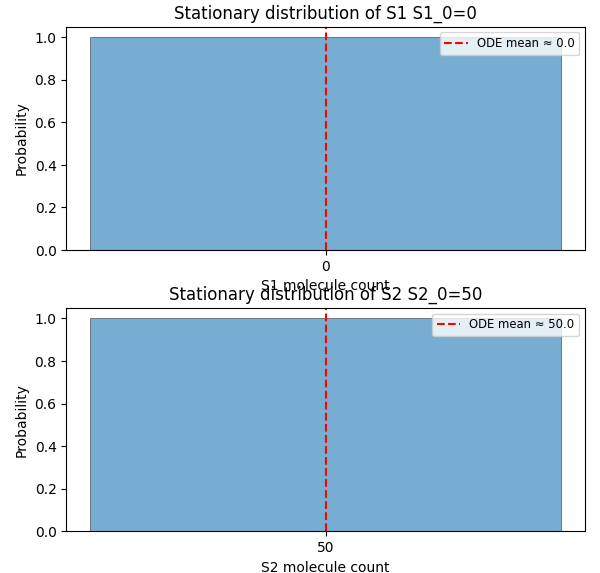
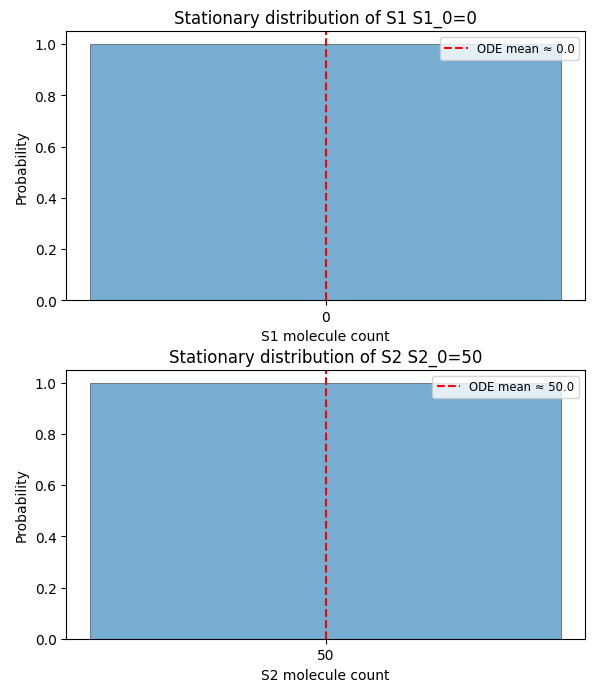
change the plot

diff --git a/M2R-Gillespie-algorithm-for-stochastic-biochemical-systems/src/ligand_dimerization_case1_dis.py b/M2R-Gillespie-algorithm-for-stochastic-biochemical-systems/src/ligand_dimerization_case1_dis.py
@@ -58,7 +58,7 @@ def sample_stationary_S1_S2(S1_0, S2_0, t_max, burn_in, dt_sample, n_runs): # no
     return all_S1, all_S2
 
 
-# 5. Plot stationary histograms
+# Plot stationary histograms
 def plot_stationary_distribution_S1_S2(S1_0, S2_0, t_max,burn_in=500.0, dt_sample=1.0,n_runs=50): # noqa
 
     all_S1, all_S2 = sample_stationary_S1_S2( # noqa
@@ -78,7 +78,7 @@ def plot_stationary_distribution_S1_S2(S1_0, S2_0, t_max,burn_in=500.0, dt_sampl
     S2_ss = ode_sol[-1, 1] # noqa
 
     # Create subplots
-    fig, (ax1, ax2) = plt.subplots(2, 1, figsize=(6, 8), sharex=False)
+    fig, (ax1, ax2) = plt.subplots(2, 1, figsize=(6, 8), sharex=False, constrained_layout=True) # noqa
 
     # Plot for S1
     ax1.hist(all_S1, bins=bins_S1, density=True,
@@ -88,7 +88,6 @@ def plot_stationary_distribution_S1_S2(S1_0, S2_0, t_max,burn_in=500.0, dt_sampl
     ax1.set_xlabel("S1 molecule count")
     ax1.set_ylabel("Probability")
     ax1.set_title(f"Stationary distribution of S1 S1_0=100") # noqa
-    ax1.set_xticks(np.arange(S1_min, S1_max + 1))
     ax1.legend(fontsize="small")
 
     # Plot for S2
@@ -99,7 +98,6 @@ def plot_stationary_distribution_S1_S2(S1_0, S2_0, t_max,burn_in=500.0, dt_sampl
     ax2.set_xlabel("S2 molecule count")
     ax2.set_ylabel("Probability")
     ax2.set_title(f"Stationary distribution of S2 S2_0=50") # noqa
-    ax2.set_xticks(np.arange(S2_min, S2_max + 1))
     ax2.legend(fontsize="small")
 
     plt.tight_layout()

diff --git a/M2R-Gillespie-algorithm-for-stochastic-biochemical-systems/src/ligand_dimerization_case2_dis.py b/M2R-Gillespie-algorithm-for-stochastic-biochemical-systems/src/ligand_dimerization_case2_dis.py
@@ -78,7 +78,7 @@ def plot_stationary_distribution_S1_S2(S1_0, S2_0, t_max,burn_in=500.0, dt_sampl
     S2_ss = ode_sol[-1, 1] # noqa
 
     # Create subplots
-    fig, (ax1, ax2) = plt.subplots(2, 1, figsize=(6, 8), sharex=False)
+    fig, (ax1, ax2) = plt.subplots(2, 1, figsize=(6, 8), sharex=False, constrained_layout=True) # noqa
 
     # Plot for S1
     ax1.hist(all_S1, bins=bins_S1, density=True,
@@ -88,7 +88,6 @@ def plot_stationary_distribution_S1_S2(S1_0, S2_0, t_max,burn_in=500.0, dt_sampl
     ax1.set_xlabel("S1 molecule count")
     ax1.set_ylabel("Probability")
     ax1.set_title(f"Stationary distribution of S1 S1_0=100") # noqa
-    ax1.set_xticks(np.arange(S1_min, S1_max + 1))
     ax1.legend(fontsize="small")
 
     # Plot for S2
@@ -99,7 +98,6 @@ def plot_stationary_distribution_S1_S2(S1_0, S2_0, t_max,burn_in=500.0, dt_sampl
     ax2.set_xlabel("S2 molecule count")
     ax2.set_ylabel("Probability")
     ax2.set_title(f"Stationary distribution of S2 S2_0=0") # noqa
-    ax2.set_xticks(np.arange(S2_min, S2_max + 1))
     ax2.legend(fontsize="small")
 
     plt.tight_layout()

diff --git a/M2R-Gillespie-algorithm-for-stochastic-biochemical-systems/src/protein_complex_case2_distribution.py b/M2R-Gillespie-algorithm-for-stochastic-biochemical-systems/src/protein_complex_case2_distribution.py
@@ -98,7 +98,7 @@ def plot_stationary_distribution(A0, B0, C0, D0, t_max, # noqa
     A_ss = ode_sol[-1, 0] # noqa
     B_ss = ode_sol[-1, 1] # noqa
 
-    fig, (axA, axB) = plt.subplots(2, 1, figsize=(6, 8), sharex=False) # noqa
+    fig, (axA, axB) = plt.subplots(2, 1, figsize=(6, 8), sharex=False, constrained_layout=True) # noqa
 
     # Plot A
     axA.hist(all_A, bins=bins_A, density=True,
@@ -108,7 +108,6 @@ def plot_stationary_distribution(A0, B0, C0, D0, t_max, # noqa
     axA.set_xlabel("A molecule count")
     axA.set_ylabel("Probability")
     axA.set_title(f"Stationary distribution of A, A0 = 50") # noqa
-    axA.set_xticks(np.arange(A_min, A_max + 1))
     axA.legend(fontsize="small")
 
     # Plot B
@@ -119,7 +118,6 @@ def plot_stationary_distribution(A0, B0, C0, D0, t_max, # noqa
     axB.set_xlabel("B molecule count")
     axB.set_ylabel("Probability")
     axB.set_title(f"Stationary distribution of B B0 = 30") # noqa
-    axB.set_xticks(np.arange(B_min, B_max + 1))
     axB.legend(fontsize="small")
 
     plt.tight_layout()

diff --git a/M2R-Gillespie-algorithm-for-stochastic-biochemical-systems/src/protein_complex_case3_distribution.py b/M2R-Gillespie-algorithm-for-stochastic-biochemical-systems/src/protein_complex_case3_distribution.py
@@ -98,7 +98,7 @@ def plot_stationary_distribution(A0, B0, C0, D0, t_max, # noqa
     A_ss = ode_sol[-1, 0] # noqa
     B_ss = ode_sol[-1, 1] # noqa
 
-    fig, (axA, axB) = plt.subplots(2, 1, figsize=(6, 8), sharex=False) # noqa
+    fig, (axA, axB) = plt.subplots(2, 1, figsize=(6, 8), sharex=False, constrained_layout=True) # noqa
 
     # Plot A
     axA.hist(all_A, bins=bins_A, density=True,
@@ -108,7 +108,6 @@ def plot_stationary_distribution(A0, B0, C0, D0, t_max, # noqa
     axA.set_xlabel("A molecule count")
     axA.set_ylabel("Probability")
     axA.set_title(f"Stationary distribution of A, A0 = 50") # noqa
-    axA.set_xticks(np.arange(A_min, A_max + 1))
     axA.legend(fontsize="small")
 
     # Plot B
@@ -119,7 +118,6 @@ def plot_stationary_distribution(A0, B0, C0, D0, t_max, # noqa
     axB.set_xlabel("B molecule count")
     axB.set_ylabel("Probability")
     axB.set_title(f"Stationary distribution of B B0 = 0") # noqa
-    axB.set_xticks(np.arange(B_min, B_max + 1))
     axB.legend(fontsize="small")
 
     plt.tight_layout()

diff --git a/M2R-Gillespie-algorithm-for-stochastic-biochemical-systems/src/protein_complex_case4_distribution.py b/M2R-Gillespie-algorithm-for-stochastic-biochemical-systems/src/protein_complex_case4_distribution.py
@@ -98,7 +98,7 @@ def plot_stationary_distribution(A0, B0, C0, D0, t_max, # noqa
     A_ss = ode_sol[-1, 0] # noqa
     B_ss = ode_sol[-1, 1] # noqa
 
-    fig, (axA, axB) = plt.subplots(2, 1, figsize=(6, 8), sharex=False) # noqa
+    fig, (axA, axB) = plt.subplots(2, 1, figsize=(6, 8), sharex=False, constrained_layout=True) # noqa
 
     # Plot A
     axA.hist(all_A, bins=bins_A, density=True,
@@ -108,7 +108,6 @@ def plot_stationary_distribution(A0, B0, C0, D0, t_max, # noqa
     axA.set_xlabel("A molecule count")
     axA.set_ylabel("Probability")
     axA.set_title(f"Stationary distribution of A, A0 = 0") # noqa
-    axA.set_xticks(np.arange(A_min, A_max + 1))
     axA.legend(fontsize="small")
 
     # Plot B
@@ -119,7 +118,6 @@ def plot_stationary_distribution(A0, B0, C0, D0, t_max, # noqa
     axB.set_xlabel("B molecule count")
     axB.set_ylabel("Probability")
     axB.set_title(f"Stationary distribution of B B0 = 30") # noqa
-    axB.set_xticks(np.arange(B_min, B_max + 1))
     axB.legend(fontsize="small")
 
     plt.tight_layout()

diff --git a/M2R-Gillespie-algorithm-for-stochastic-biochemical-systems/src/protein_complex_case1_distribution.py b/M2R-Gillespie-algorithm-for-stochastic-biochemical-systems/src/protein_complex_case1_distribution.py
@@ -98,7 +98,7 @@ def plot_stationary_distribution(A0, B0, C0, D0, t_max, # noqa
     A_ss = ode_sol[-1, 0] # noqa
     B_ss = ode_sol[-1, 1] # noqa
 
-    fig, (axA, axB) = plt.subplots(2, 1, figsize=(6, 8), sharex=False) # noqa
+    fig, (axA, axB) = plt.subplots(2, 1, figsize=(6, 8), sharex=False, constrained_layout=True) # noqa
 
     # Plot A
     axA.hist(all_A, bins=bins_A, density=True,
@@ -108,7 +108,6 @@ def plot_stationary_distribution(A0, B0, C0, D0, t_max, # noqa
     axA.set_xlabel("A molecule count")
     axA.set_ylabel("Probability")
     axA.set_title(f"Stationary distribution of A, A0 = 0") # noqa
-    axA.set_xticks(np.arange(A_min, A_max + 1))
     axA.legend(fontsize="small")
 
     # Plot B
@@ -119,7 +118,6 @@ def plot_stationary_distribution(A0, B0, C0, D0, t_max, # noqa
     axB.set_xlabel("B molecule count")
     axB.set_ylabel("Probability")
     axB.set_title(f"Stationary distribution of B B0 = 0") # noqa
-    axB.set_xticks(np.arange(B_min, B_max + 1))
     axB.legend(fontsize="small")
 
     plt.tight_layout()

diff --git a/M2R-Gillespie-algorithm-for-stochastic-biochemical-systems/src/ligand_dimerization_case3_dis.py b/M2R-Gillespie-algorithm-for-stochastic-biochemical-systems/src/ligand_dimerization_case3_dis.py
@@ -78,7 +78,7 @@ def plot_stationary_distribution_S1_S2(S1_0, S2_0, t_max,burn_in=500.0, dt_sampl
     S2_ss = ode_sol[-1, 1] # noqa
 
     # Create subplots
-    fig, (ax1, ax2) = plt.subplots(2, 1, figsize=(6, 8), sharex=False)
+    fig, (ax1, ax2) = plt.subplots(2, 1, figsize=(6, 8), sharex=False, constrained_layout=True) # noqa
 
     # Plot for S1
     ax1.hist(all_S1, bins=bins_S1, density=True,
